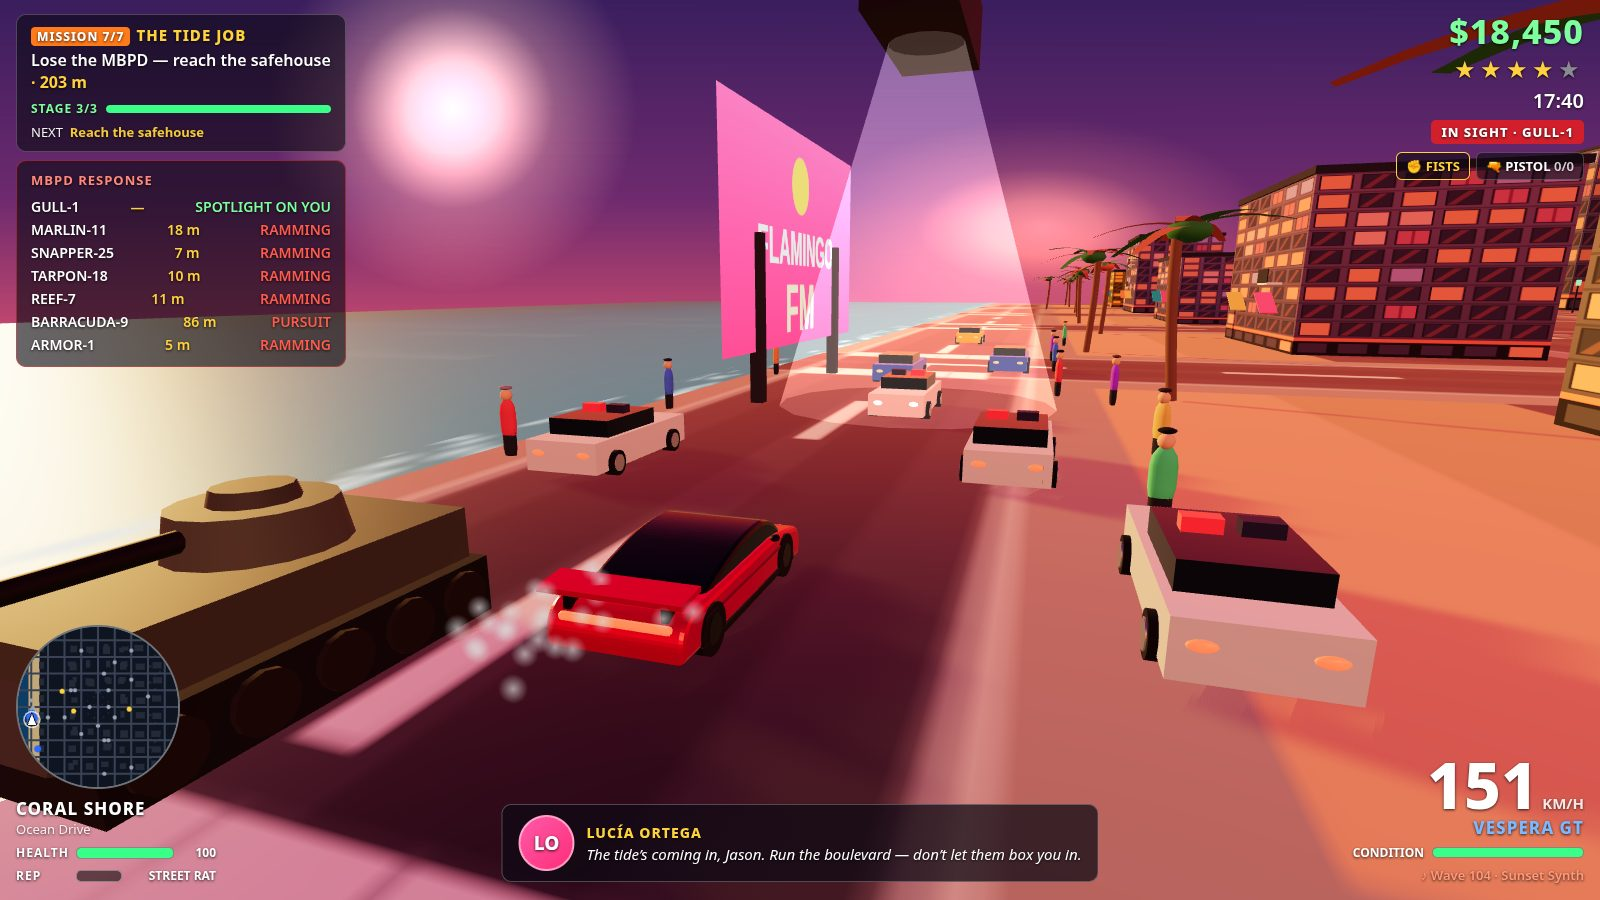
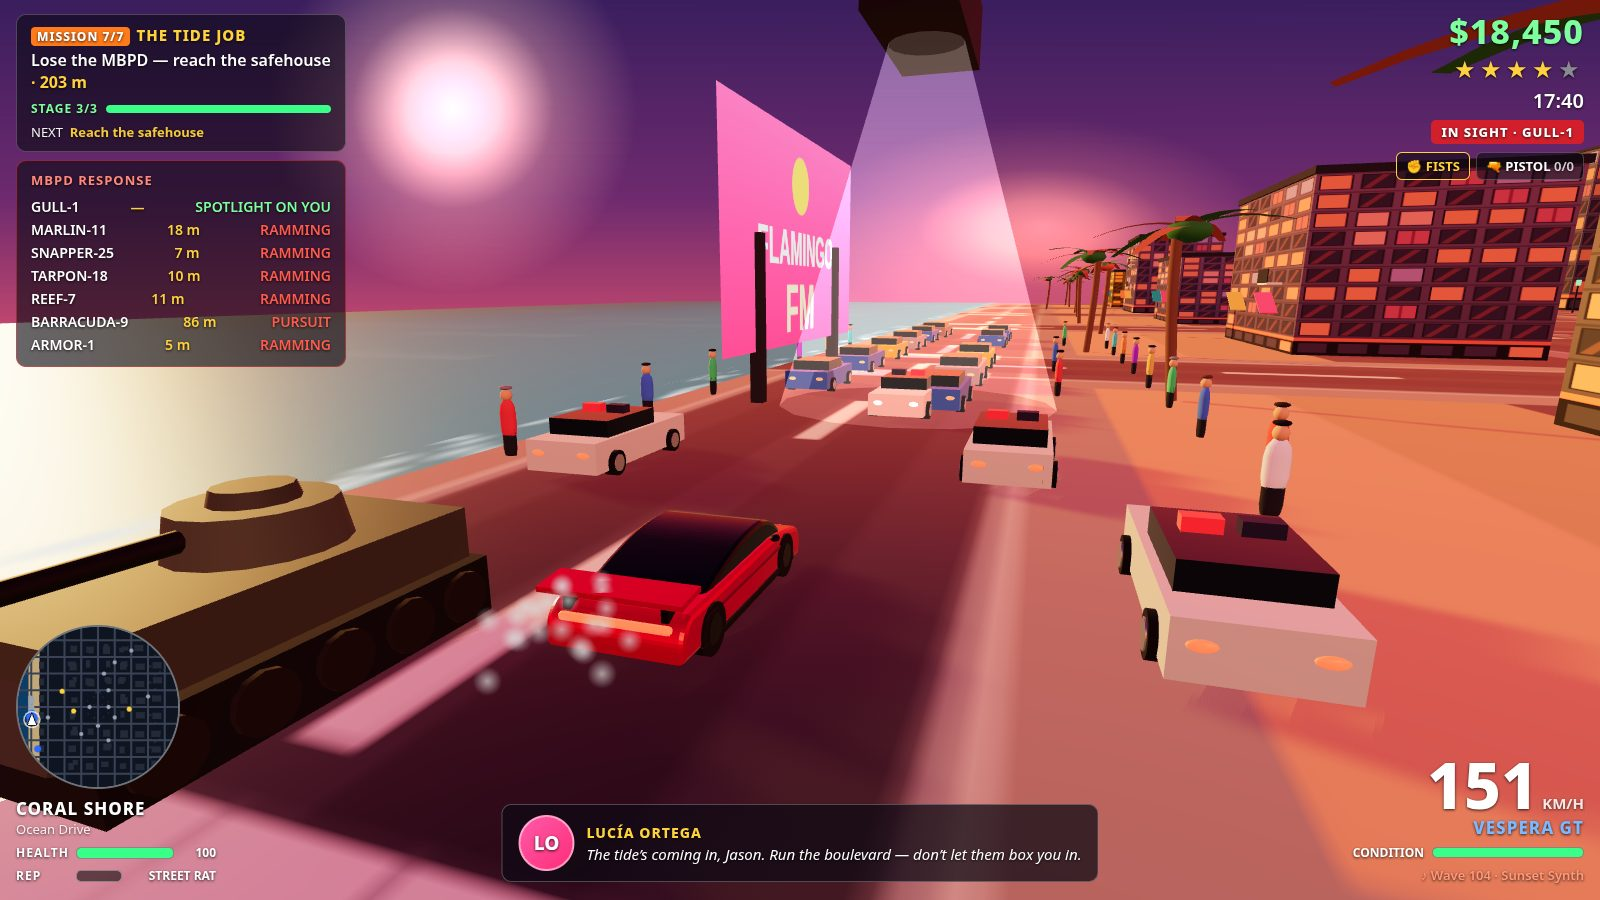
Hero shot: jalan ramai macet + trotoar penuh orang
- 11 mobil traffic bumper-to-bumper di kedua lajur jalan di depan pemain
  (20-64 m ke depan), jadi jalan penuh sampai horizon, bukan lengang
- 24 pejalan kaki di trotoar kiri + kanan jalan (dari 14) — kedua sisi
  jalan ramai orang
- GT merah, tank, 5 cruiser mengepung, heli + spotlight, billboard
  FLAMINGO FM, sunset, HUD padat — semua dipertahankan
- QA: selftest 85/85, shots PASS (1-hero.jpg 166,888 B)

Changed region(s): [[0.375, 0.3422, 0.6562, 0.4667], [0.2812, 0.6222, 0.4375, 0.7778], [0.6875, 0.3733, 0.8125, 0.5911]]

diff --git a/game/src/shots.js b/game/src/shots.js
@@ -142,10 +142,16 @@ function stageShotInner(name, world, systems, state) {
         c.angle = 0;
         c.speed = 22;
       });
-      // Crowd: pedestrians on the sand + both sidewalks of the street,
-      // so the boulevard feels alive, not empty. (Traffic cars are placed
+      // Crowd: 24 pedestrians — sand + avenue + BOTH roadsides of the
+      // street (west sidewalk x=-199, east roadside x=-181), so the
+      // sidewalks read crowded, not 1-2 people. (Traffic cars are placed
       // on the street after the sim, in the framing block below.)
-      placePeds(state, [[-185, 12], [-185, 2], [-184, -18], [-153, 30], [-152, -6], [-155, -28], [-137, 10], [-137, -14], [-199, 30], [-199, 20], [-183, 32], [-183, 24], [-183, 14], [-199, 8]]);
+      placePeds(state, [
+        [-185, 12], [-185, 2], [-184, -18],
+        [-153, 30], [-152, -6], [-155, -28], [-137, 10], [-137, -14],
+        [-199, 30], [-199, 22], [-199, 16], [-199, 10], [-199, 4], [-199, -2], [-199, -8],
+        [-181, 30], [-181, 26], [-181, 20], [-181, 14], [-181, 8], [-181, 2], [-181, -4], [-181, -10], [-181, -16],
+      ]);
       // Tank + helicopter: the tank rumbles in 40 m behind on the left,
       // facing NORTH (toward the player, angle PI) so it closes in
       // head-on instead of driving away — the pursuit turns it around
@@ -183,11 +189,19 @@ function stageShotInner(name, world, systems, state) {
       cops[3].x = player.x + 4; cops[3].z = player.z - 10;
       cops[3].angle = Math.PI; cops[3].speed = 0;
     }
-    // Traffic ON the street ahead of the player (not the far avenue), so
-    // the road reads full: three civilian cars in both lanes, mid-frame
-    // and in the distance.
-    const civ = (state.cars || []).filter((c) => !c.isPolice && c.kind !== 'sports' && c.kind !== 'tank' && !c.isParked).slice(0, 3);
-    const civSpots = [[player.x - 2, player.z - 28], [player.x + 3, player.z - 34], [player.x - 1, player.z - 55]];
+    // Traffic JAM on the street ahead of the player (not the far avenue):
+    // 11 civilian cars bumper-to-bumper in both lanes, so the road reads
+    // FULL, not empty. Left lane x-5, right lane x+1 (the player drives at
+    // x, centre-right); the grid skips the roadblock cruiser at (x, z-42).
+    const civ = (state.cars || []).filter((c) => !c.isPolice && c.kind !== 'sports' && c.kind !== 'tank' && !c.isParked).slice(0, 11);
+    const civSpots = [
+      [player.x - 5, player.z - 24], [player.x - 5, player.z - 32],
+      [player.x - 5, player.z - 40], [player.x - 5, player.z - 48],
+      [player.x - 5, player.z - 56], [player.x - 5, player.z - 64],
+      [player.x + 1, player.z - 20], [player.x + 1, player.z - 28],
+      [player.x + 1, player.z - 36], [player.x + 1, player.z - 52],
+      [player.x + 1, player.z - 60],
+    ];
     civ.forEach((c, i) => {
       c.x = civSpots[i][0]; c.z = civSpots[i][1];
       c.angle = Math.PI; c.speed = 0;

diff --git a/NOTES.md b/NOTES.md
@@ -510,3 +510,23 @@ in-car bust + in-car death checks that step the world afterwards.
   hardware); the smoke burst is random per run (positions/velocities), so
   the dust cloud shape varies slightly between shots — the world state
   stays deterministic.
+
+### Hero-shot round 2 — jalan ramai + trotoar penuh (18 Nov, steer Romi)
+- **Macet bumper-to-bumper:** 11 mobil traffic di kedua lajur jalan di depan
+  pemain (lajur kiri x-5, lajur kanan x+1, jarak 8 m, dari 20 m sampai 64 m
+  di depan) — jalan di depan GT penuh sampai ke horizon, bukan lengang.
+  Ditambah 5 cruiser + tank + GT = 18 kendaraan di frame.
+- **Trotoar ramai:** 24 pejalan kaki (dari 14) — pasir + avenue + trotoar
+  barat x=-199 (7 orang) + pinggir timur x=-181 (9 orang), jarak ~6 m,
+  jadi kedua sisi jalan penuh orang, bukan 1-2 orang.
+- **Semua yang lain dipertahankan:** GT merah + spoiler + debu, tank kiri
+  bawah, 5 cruiser mengepung, heli 1,4x + beam + pool, billboard FLAMINGO
+  FM, laut + pasir, sunset jenuh, HUD padat (MISSION 7/7, MBPD 7 baris,
+  $18,450, 151 KM/H VESPERA GT, kartu Lucía).
+- **Perubahan:** hanya `game/src/shots.js` (staging hero: grid traffic
+  11 titik + daftar peds 24 titik). Tidak ada perubahan gameplay — playtest
+  tidak perlu diulang; selftest hero checks mencakup staging ini.
+- **QA (18 Nov):** selftest **85/85 PASS**; shots **PASS, 0 errors**
+  (1-hero.jpg 166,888 B, wanted=3, policeCars=6). Screenshot diverifikasi
+  visual: jalan depan penuh mobil berjejer dua lajur sampai horizon,
+  trotoar kanan penuh orang, kiri ada beberapa pejalan di tepi pantai.
